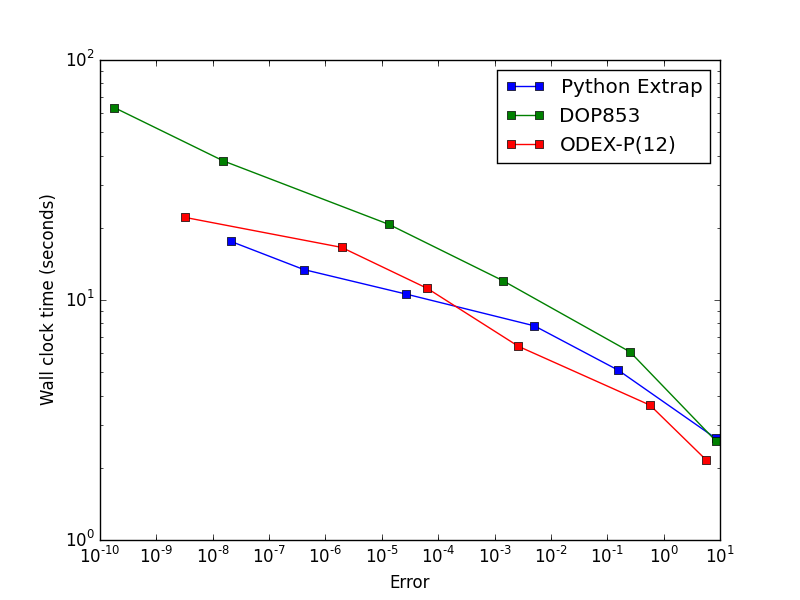
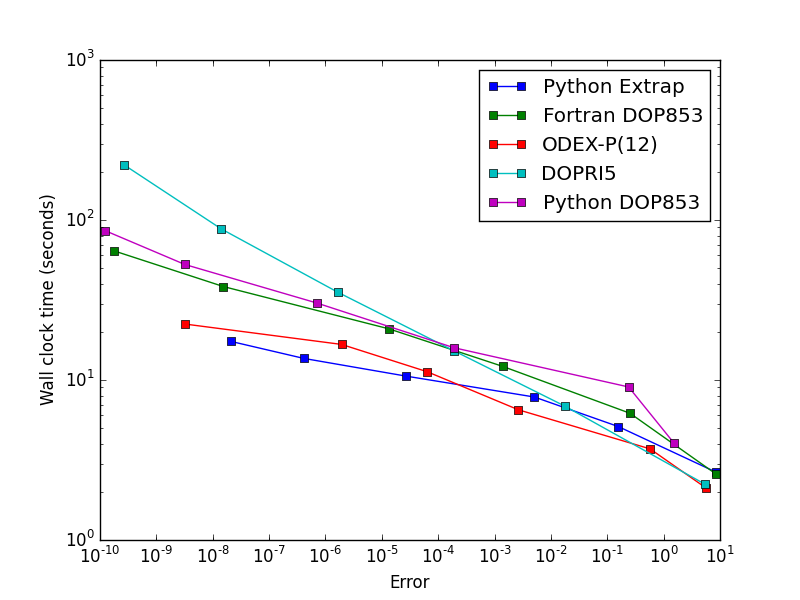
added comparison result to images

diff --git a/compare_test.py b/compare_test.py
@@ -134,8 +134,8 @@ for i in range(len(atol)):
     print 'Runtime: ', dopri5_runtime[i], ' s   Error: ', dopri5_yerr[i], '   fe_seq: ', dopri5_fe_seq[i], '   fe_tot: ', dopri5_fe_tot[i], '   nstp: ', dopri5_nstp[i]
     print ''
 
-    # run DOP853
-    print 'running DOP853'
+    # run Python DOP853
+    print 'running Python DOP853'
     start_time = time.time()
     r = ode(f2, jac=None).set_integrator('dop853', atol=atol[i], rtol=0, verbosity=10, nsteps= 10e5)
     r.set_initial_value(y0, t0)
@@ -156,7 +156,7 @@ print "Final data: ODEX-P"
 print odex_runtime, odex_fe_seq, odex_fe_tot, odex_yerr, odex_nstp
 print "Final data: DOPRI5"
 print dopri5_runtime, dopri5_fe_seq, dopri5_fe_tot, dopri5_yerr, dopri5_nstp
-print "Final data: DOP853"
+print "Final data: Python DOP853"
 print dop853_runtime, dop853_fe_seq, dop853_fe_tot, dop853_yerr, dop853_nstp
 
 # plot performance graphs
@@ -178,7 +178,7 @@ plt.close()
 py_line,   = plt.loglog(py_yerr, py_fe_seq, "s-")
 f_dop853_line, = plt.loglog(f_dop853_yerr, f_dop853_fe_seq, "s-")
 odex_line, = plt.loglog(odex_yerr, odex_fe_seq, "s-")
-plt.legend([py_line, f_dop853_line, odex_line], ["Python Extrap", "DOP853", "ODEX-P(12)"], loc=1)
+plt.legend([py_line, f_dop853_line, odex_line], ["Python Extrap", "Fortran DOP853", "ODEX-P(12)"], loc=1)
 plt.xlabel('Error')
 plt.ylabel('Sequential derivative evaluations')
 plt.savefig('images/err_vs_fe_seq.png')
@@ -187,7 +187,7 @@ plt.close()
 py_line,   = plt.loglog(py_yerr, py_fe_tot, "s-")
 f_dop853_line, = plt.loglog(f_dop853_yerr, f_dop853_fe_tot, "s-")
 odex_line, = plt.loglog(odex_yerr, odex_fe_tot, "s-")
-plt.legend([py_line, f_dop853_line, odex_line], ["Python Extrap", "DOP853", "ODEX-P(12)"], loc=1)
+plt.legend([py_line, f_dop853_line, odex_line], ["Python Extrap", "Fortran DOP853", "ODEX-P(12)"], loc=1)
 plt.xlabel('Error')
 plt.ylabel('Total derivative evaluations')  
 plt.savefig('images/err_vs_fe_tot.png')
@@ -196,7 +196,7 @@ plt.close()
 py_line,   = plt.loglog(atol, py_nstp, "s-")
 f_dop853_line, = plt.loglog(atol, f_dop853_nstp, "s-")
 odex_line, = plt.loglog(atol, odex_nstp, "s-")
-plt.legend([py_line, f_dop853_line, odex_line], ["Python Extrap", "DOP853", "ODEX-P(12)"], loc=1)
+plt.legend([py_line, f_dop853_line, odex_line], ["Python Extrap", "Fortran DOP853", "ODEX-P(12)"], loc=1)
 plt.xlabel('tol')
 plt.ylabel('Total number of steps')  
 plt.savefig('images/tol_vs_nstp.png')
